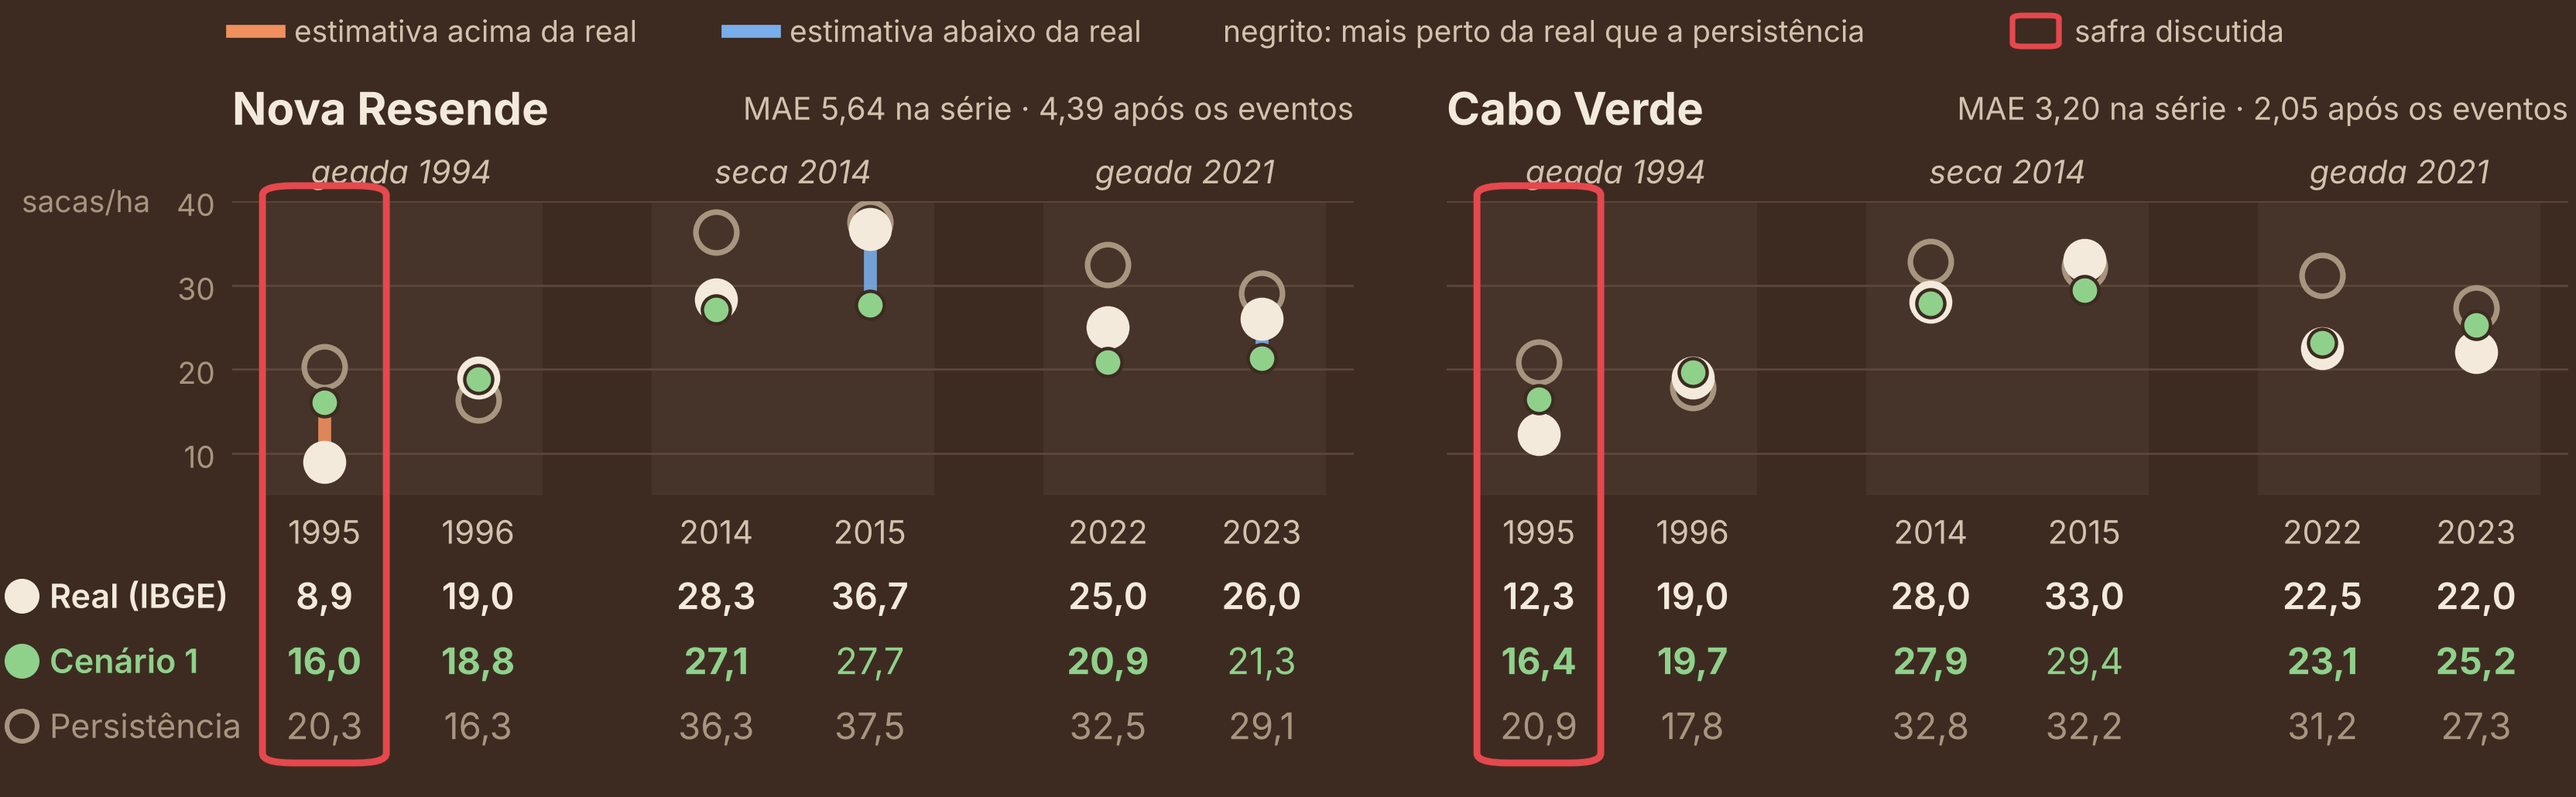
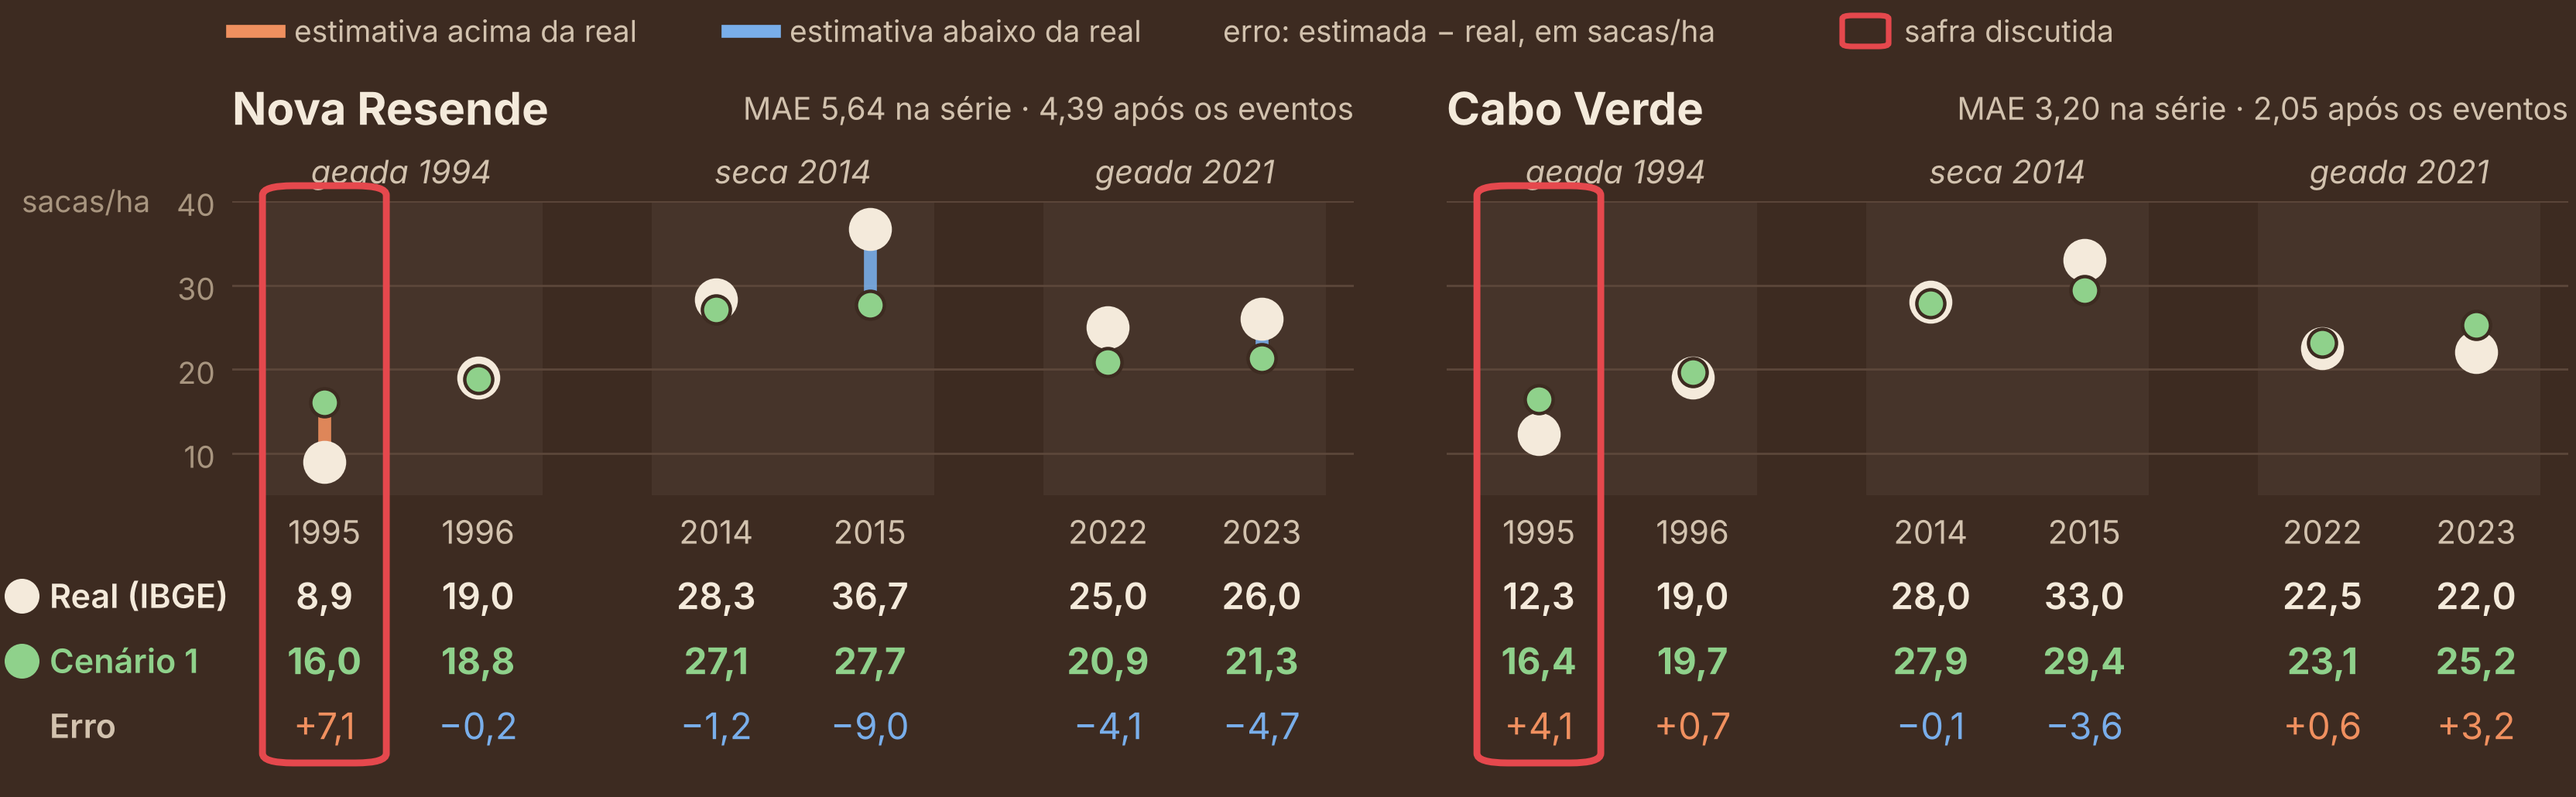
README para a banca; figuras dos slides sem persistência; teste com 12 municípios (e8)
- README: banca e titulações, local da defesa, título atualizado em Como citar,
  safra inteira fora dos cenários 1 a 4 na Tabela 1, testes de reserva e6 a e8,
  e correção da descrição da seleção dos municípios (os quatro excluídos também
  têm a série completa na PAM)
- 5h: gráficos dos slides com real, estimada e erro (estimada - real)
- e8: Cenário 1 com São Sebastião do Paraíso e Monte Santo de Minas (N = 420)

Claude-Session: https://claude.ai/code/session_01Y9bw1suotKNxbKkZ3hyj9N

diff --git a/etapa5_avaliacao/5h_eventos_slides.py b/etapa5_avaliacao/5h_eventos_slides.py
@@ -106,7 +106,6 @@ def figura_cenario(c):
         for x, (_, r) in zip(xs, e.iterrows()):
             ax.plot([x, x], [r.real, r.estimada], color=ACIMA if r.estimada > r.real else ABAIXO, lw=6,
                     alpha=0.9, solid_capstyle="butt", zorder=2)
-        ax.plot(xs, e.persistencia, ls="none", marker="o", ms=19, mfc="none", mec=APAGADO, mew=2.6, zorder=3)
         ax.plot(xs, e.real, ls="none", marker="o", ms=19, color=CREME, zorder=4)
         ax.plot(xs, e.estimada, ls="none", marker="o", ms=13, color=cor, mec=FUNDO, mew=1.6, zorder=5)
         ax.set_xlim(-0.6, max(pos.values()) + 0.6)
@@ -128,23 +127,23 @@ def figura_cenario(c):
                                                   boxstyle="round,pad=0,rounding_size=0.012", transform=fig.transFigure,
                                                   fill=False, ec=VERMELHO, lw=3.2, zorder=10))
         m = MAE[c][rot]
-        nota = (f"MAE {v2(m['MAE'])} · persistência {v2(m['MAE_persistencia'])}" if c in prev
+        nota = (f"MAE {v2(m['MAE'])} nas safras de teste" if c in prev
                 else f"MAE {v2(m['MAE'])} na série · {v2(m['MAE_eventos'])} após os eventos")
         fig.text(x0 / W, 4.45 / H, rot, fontsize=21, fontweight="bold", color=CREME, va="center")
         fig.text((x0 + larg) / W, 4.45 / H, nota, fontsize=14.5, color=BEGE, va="center", ha="right")
         tr = blended_transform_factory(ax.transData, fig.transFigure)
         for x, (_, r) in zip(xs, e.iterrows()):
-            perto = abs(r.estimada - r.real) < abs(r.persistencia - r.real)
             fig.text(x, y_lin[0] / H, v(r.real), transform=tr, ha="center", va="center", fontsize=17,
                      color=CREME, fontweight="semibold")
             fig.text(x, y_lin[1] / H, v(r.estimada), transform=tr, ha="center", va="center", fontsize=17,
-                     color=cor, fontweight="bold" if perto else "normal")
-            fig.text(x, y_lin[2] / H, v(r.persistencia), transform=tr, ha="center", va="center", fontsize=17,
-                     color=APAGADO)
+                     color=cor, fontweight="bold")
+            dif = round(r.estimada, 1) - round(r.real, 1)
+            fig.text(x, y_lin[2] / H, ("+" if dif > 0 else "−" if dif < 0 else "") + v(abs(dif)), transform=tr,
+                     ha="center", va="center", fontsize=17, color=ACIMA if dif > 0 else ABAIXO if dif < 0 else BEGE)
     # rótulos das linhas da tabela, que servem de legenda
     for y, (txt, estilo) in zip(y_lin, [("Real (IBGE)", dict(color=CREME, mfc=CREME, mec=CREME)),
                                         (NOME[c], dict(color=cor, mfc=cor, mec=cor)),
-                                        ("Persistência", dict(color=APAGADO, mfc="none", mec=APAGADO))]):
+                                        ("Erro", dict(color=BEGE, mfc="none", mec="none"))]):
         cor_txt = estilo.pop("color")
         fig.lines.append(plt.Line2D([0.14 / W], [y / H], transform=fig.transFigure, marker="o", ms=14,
                                     mew=2.2, ls="none", **estilo))
@@ -157,9 +156,8 @@ def figura_cenario(c):
                                     color=c_, lw=6))
         fig.text((xl + 0.40) / W, 4.95 / H, txt, fontsize=14, color=BEGE, va="center")
         xl += 3.2
-    fig.text(xl / W, 4.95 / H, "negrito: mais perto da real que a persistência", fontsize=14, color=BEGE,
-             va="center")
-    xl += 5.1
+    fig.text(xl / W, 4.95 / H, "erro: estimada − real, em sacas/ha", fontsize=14, color=BEGE, va="center")
+    xl += 4.0
     fig.patches.append(FancyBboxPatch((xl / W, 4.85 / H), 0.30 / W, 0.20 / H, boxstyle="round,pad=0,rounding_size=0.004",
                                       transform=fig.transFigure, fill=False, ec=VERMELHO, lw=2.6))
     fig.text((xl + 0.40) / W, 4.95 / H, "safra discutida", fontsize=14, color=BEGE, va="center")

diff --git a/experimentos/e8_doze_municipios_cenario1.py b/experimentos/e8_doze_municipios_cenario1.py
@@ -1,0 +1,64 @@
+"""
+EXPERIMENTO 8: Cenário 1 com 12 municípios (reserva para a banca)
+=================================================================
+Acrescenta São Sebastião do Paraíso e Monte Santo de Minas, que têm a série
+completa na PAM (Tabela 1613 do SIDRA, consultada em 21/11/2026), aos dez do
+TCC e repete o Cenário 1 (tendência e anomalia bienal), que só usa o IBGE.
+Mesmas regras do TCC: café total até 2012 e arábica de 2013 a 2023, safras
+1989 a 2023, K-Fold aninhado e safra inteira fora, Wilcoxon por safra.
+
+Saída: resultados/e8_doze_municipios_cenario1.json
+"""
+import json
+import sys
+from pathlib import Path
+
+import numpy as np
+import pandas as pd
+from sklearn.model_selection import LeaveOneGroupOut
+
+sys.path.insert(0, str(Path(__file__).resolve().parents[1]))
+from config import (ALVO, ANO, CONTROLES, DADOS_BRUTOS, MUN, RESULTADOS, busca_em_grade,  # noqa: E402
+                    metricas, validacao_aninhada, wilcoxon_obs_e_safra)
+
+pam = pd.concat([pd.read_csv(DADOS_BRUTOS / "producao_ibge_pam_1988_2023.csv"),
+                 pd.read_csv(DADOS_BRUTOS / "producao_ibge_pam_ssp_montesanto_1988_2023.csv")])
+pam = pam.rename(columns={"Rendimento_kg_ha": ALVO}).sort_values([MUN, ANO]) if ALVO not in pam else pam
+g = pam.groupby(MUN)[ALVO]
+pam["produtividade_t_1"] = g.shift(1)
+pam["media_movel_3anos"] = g.transform(lambda x: x.shift(1).rolling(3, min_periods=1).mean())
+pam["anomalia_bienal_t_1"] = pam.produtividade_t_1 - pam.media_movel_3anos
+pam["tendencia_temporal"] = pam[ANO] - 1988
+pam["repete"] = g.diff().eq(0)
+
+
+def safra_fora(d):
+    p = np.zeros(len(d))
+    for tr, te in LeaveOneGroupOut().split(d, groups=d[ANO]):
+        p[te] = busca_em_grade().fit(d[CONTROLES].iloc[tr], d[ALVO].iloc[tr]).predict(d[CONTROLES].iloc[te])
+    return p
+
+
+res = {}
+for nome, muns in [("10_municipios", None), ("12_municipios", "todos"), ("so_os_2_novos", "novos")]:
+    d = pam[pam[ANO] >= 1989]
+    if muns is None:
+        d = d[~d[MUN].isin(["Monte Santo de Minas", "Sao Sebastiao do Paraiso"])]
+    d = d.reset_index(drop=True)
+    y = d[ALVO].values
+    eM = np.abs(y - d.media_movel_3anos.values)
+    pk = validacao_aninhada(d, CONTROLES)[0]
+    ps = safra_fora(d)
+    r = {"N": len(d), "repetidos": int(d.repete.sum()), "media_real_sc": round(y.mean() / 60, 2),
+         "persistencia": metricas(y, d.media_movel_3anos),
+         "C1_kfold": {**metricas(y, pk), "wilcoxon_vs_M": wilcoxon_obs_e_safra(eM, np.abs(y - pk), d[ANO])},
+         "C1_safra_fora": {**metricas(y, ps), "wilcoxon_vs_M": wilcoxon_obs_e_safra(eM, np.abs(y - ps), d[ANO])}}
+    if muns == "todos":
+        for m in ["Monte Santo de Minas", "Sao Sebastiao do Paraiso"]:
+            s = (d[MUN] == m).values
+            r[m] = {"MAE_C1_kfold": metricas(y[s], pk[s])["MAE"], "MAE_persistencia": metricas(y[s], d.media_movel_3anos[s])["MAE"]}
+    res[nome] = r
+    print(nome, json.dumps(r, ensure_ascii=False, default=float)[:600], flush=True)
+    if muns == "todos":
+        break
+(RESULTADOS / "e8_doze_municipios_cenario1.json").write_text(json.dumps(res, indent=1, ensure_ascii=False, default=float))

diff --git a/README.md b/README.md
@@ -3,8 +3,9 @@
 Trabalho de Conclusão de Curso em **Engenharia Agronômica**, Instituto Federal do Sul de Minas Gerais (IFSULDEMINAS), Campus Muzambinho.
 
 **Autor:** Luiz Felipe Viana Dias da Silva
-**Orientador:** Prof. Dr. Allan Arantes Pereira
-**Defesa:** 25 de novembro de 2026
+**Orientador:** Prof. DSc. Allan Arantes Pereira (IFSULDEMINAS, Campus Muzambinho)
+**Banca:** Prof. DSc. Lucas Eduardo de Oliveira Aparecido (IFSULDEMINAS, Campus Muzambinho) e MSc. Eduarda Goulart (Universidade Federal de Lavras)
+**Defesa:** 25 de novembro de 2026, 15h, Auditório da Agronomia, IFSULDEMINAS, Campus Muzambinho
 
 Este repositório reúne os dados, os códigos e os resultados do TCC, na ordem em que o trabalho foi feito: coleta dos dados, pré-processamento, montagem da base, modelagem e avaliação. Todos os números das tabelas do texto são reproduzidos pelos scripts daqui.
 
@@ -54,7 +55,7 @@ Principais resultados:
 
 ## 2. Área de estudo
 
-Dez dos 14 municípios da microrregião de São Sebastião do Paraíso, no Sul de Minas Gerais: **Arceburgo, Cabo Verde, Guaranésia, Guaxupé, Itamogi, Jacuí, Juruaia, Monte Belo, Muzambinho e Nova Resende**, os que têm a série de produtividade de café completa na PAM de 1988 a 2023. Somaram 59,7 mil ha de café colhidos em 2023 (IBGE). Clima Cwa e Cwb, com chuvas de outubro a março e inverno seco, quando ocorrem as geadas.
+Dez dos 14 municípios da microrregião de São Sebastião do Paraíso, no Sul de Minas Gerais: **Arceburgo, Cabo Verde, Guaranésia, Guaxupé, Itamogi, Jacuí, Juruaia, Monte Belo, Muzambinho e Nova Resende**, todos com a série de produtividade de café completa na PAM de 1988 a 2023. Os outros quatro (Monte Santo de Minas, São Pedro da União, São Sebastião do Paraíso e São Tomás de Aquino) também têm a série completa na consulta de novembro de 2026; o Cenário 1 foi repetido com São Sebastião do Paraíso e Monte Santo de Minas incluídos (experimento `e8`, Seção 9), com a mesma conclusão. Os dez municípios somaram 59,7 mil ha de café colhidos em 2023 (IBGE). Clima Cwa e Cwb, com chuvas de outubro a março e inverno seco, quando ocorrem as geadas.
 
 A **unidade de observação** é o município em cada safra, porque a produção vem do levantamento municipal do IBGE.
 
@@ -242,10 +243,8 @@ O modelo **nunca** usa o rendimento da safra que estima. A média móvel é calc
 * **5f.** Os seis cenários: MAE, RMSE e R² dos cenários 1 a 4; Wilcoxon de cada cenário contra a persistência e dos cenários 2, 3 e 4 contra o Cenário 1, com ajuste de Holm sobre as 6 comparações (3 cenários × observação e safra); produtividade real × estimada nas safras de evento; R² dos previsores.
 * **5g.** Uma figura por cenário com a produtividade real (IBGE) e a estimada ao longo da série em Guaxupé, Muzambinho, Nova Resende e Cabo Verde, com a persistência histórica, as safras após geada ou seca sombreadas e o MAE do cenário em cada município. A faixa entre a real e a estimada é o erro (laranja: superestimativa; azul: subestimativa). Duas versões: 1 × 4 painéis para o texto e 2 × 2, com os eventos rotulados, para os slides (`resultados/figuras/apresentacao/`).
 
-* **5h.** Figuras da apresentação: real, estimada e persistência nas safras de seca e de geada em Nova Resende e Cabo Verde, com os valores em tabela, e o resumo das safras de evento (Tabela 3) em gráfico.
+* **5h.** Figuras da apresentação: produtividade real e estimada nas safras de seca e de geada em Nova Resende e Cabo Verde, com os valores e o erro (estimada − real) em tabela, um quadro vermelho nas safras discutidas e o resumo das safras de evento (Tabela 3) em gráfico.
 * **5i.** Robustez da comparação entre os cenários 1 a 4: (1) **safra inteira fora** do treino para os quatro cenários, com Wilcoxon contra a persistência e contra o Cenário 1 (Holm sobre 6 testes); (2) **intervalo de confiança de 95%** da diferença de MAE contra o Cenário 1, por bootstrap de safras (10.000 repetições); (3) K-Fold aninhado com **sorteio de variáveis** (`max_features = "sqrt"`), como no Random Forest de Breiman (2001). O 4b também registra, à parte, o previsor de seca na safra de 2021 (florada de 2020, maior déficit da série).
-
-* **e6 e e7 (reserva para a banca).** e6: os cenários 1 a 4 sem os 61 valores suspeitos do IBGE (42 repetidos e 19 iguais aos de outros municípios na mesma safra) e um efeito climático plantado na produtividade, para ver o tamanho de efeito que o método detecta. e7: um modelo para cada município, treinado só com as outras safras dele.
 
 A análise SHAP, que atribuía o dano de cada evento ao clima e ao NDVI, saiu do texto do TCC e ficou como experimento (`experimentos/e5_dano_shap_por_evento.py`).
 
@@ -265,7 +264,10 @@ Valores em sacas/ha. Gerados por `executar_tudo.py`; os arquivos completos estã
 | 2 Base + clima | 8 | 4,71 (0,51) | 6,44 | 0,40 | 0,019 | 0,35 [1] | 4,24 |
 | 3 Base + NDVI | 6 | 4,76 (0,28) | 6,38 | 0,42 | 0,029 | 0,33 [1] | 4,34 |
 | 4 Completo | 12 | 4,69 (0,45) | 6,38 | 0,42 | 0,014 | 0,29 [1] | 4,19 |
-| 4 Completo, safra inteira fora | 12 | 6,05 | 7,86 | 0,11 | 0,73 | – | 6,08 |
+| 1 Base, safra inteira fora | 2 | 6,21 | 8,01 | 0,08 | 0,89 | – | 6,13 |
+| 2 Base + clima, safra inteira fora | 8 | 6,08 | 8,03 | 0,07 | 0,68 | 0,39 [0,96] | 5,93 |
+| 3 Base + NDVI, safra inteira fora | 6 | 5,85 | 7,62 | 0,17 | 0,48 | 0,20 [0,96] | 6,33 |
+| 4 Completo, safra inteira fora | 12 | 6,05 | 7,86 | 0,11 | 0,73 | 0,57 [0,96] | 6,08 |
 
 p: Wilcoxon pareado por safra (N = 35). Por observação (N = 350), todos os cenários diferiram da persistência (p < 0,0001) e nenhum do Cenário 1 (p ≥ 0,18). Contra Y(t−2), o Cenário 4 teve p = 0,021 por safra.
 
@@ -344,13 +346,19 @@ A pasta [`experimentos/`](experimentos/README.md) guarda os testes que guiaram a
 * **e4:** o balanço hídrico no modelo principal (reduz o erro do modelo completo, mas não o deixa melhor que o modelo só com controles);
 * **e5:** a atribuição do dano pelo SHAP nas safras de evento, que saiu do TCC porque atribuía parte da estimativa ao clima mesmo quando retirar o clima não muda o erro.
 
+Testes de reserva, feitos depois do texto final e que não estão no TCC:
+
+* **e6, dados limpos e sinal plantado.** Sem os 61 valores suspeitos do IBGE (42 iguais à safra anterior e 19 iguais aos de outros municípios na mesma safra, N = 289), com a safra inteira fora, o clima reduziu o erro da base de 6,68 para 5,97 sacas/ha e o NDVI para 6,01 (p = 0,04 por safra; 0,11 após Holm). Com um efeito climático conhecido somado à produtividade, o modelo com clima só o detectou com desvio padrão de 4 sacas/ha (7,53 → 6,51, p = 0,031) e com a safra fora; no K-Fold, nem esse efeito foi detectado (p = 0,18).
+* **e7, um modelo por município**, treinado só com as outras safras dele: Cenário 1 com 5,76 sacas/ha (uma safra fora por vez), contra 6,26 da persistência (p = 0,10); com clima, 6,34, pior que a base.
+* **e8, 12 municípios no Cenário 1.** Com São Sebastião do Paraíso e Monte Santo de Minas (N = 420), o Cenário 1 errou 4,49 sacas/ha, contra 6,36 da persistência (p = 0,001 por safra); com a safra inteira fora, 6,30 (p = 0,98). A conclusão do TCC se mantém.
+
 Em `experimentos/versoes_anteriores/` estão os códigos de fases anteriores (cenários separados, Sentinel-2, CHIRPS, a primeira baseline com vazamento etc.), com uma tabela explicando o que cada um fazia e por que foi substituído.
 
 ---
 
 ## 10. Limitações
 
-* Em 9 dos 10 municípios o IBGE repete o rendimento por 2 a 4 safras, sobretudo em 1999-2002; a PAM consolida estimativas de informantes locais.
+* O IBGE repete o rendimento da safra anterior em 42 casos, em 9 dos 10 municípios, 83% deles entre 1991 e 2002; a PAM consolida estimativas de informantes locais.
 * O K-Fold não mede a previsão de safras futuras; há poucos eventos extremos (uma seca e três geadas).
 * Os municípios de uma mesma safra compartilham o clima, por isso o teste por safra é o mais honesto.
 * O rendimento até 2012 é de café total; a partir de 2013, de café arábica.
@@ -387,4 +395,4 @@ A lista completa está no texto do TCC.
 
 ---
 
-**Como citar:** SILVA, L. F. V. D. *Sensoriamento remoto e aprendizado de máquina na estimativa da produtividade e do dano climático no café arábica*. Trabalho de Conclusão de Curso (Engenharia Agronômica). IFSULDEMINAS, Campus Muzambinho, 2026.
+**Como citar:** SILVA, L. F. V. D. *Contribuição do clima e do NDVI para estimar e antecipar a produtividade do café arábica com Random Forest*: avaliação com dados públicos em dez municípios da microrregião de São Sebastião do Paraíso, MG. Trabalho de Conclusão de Curso (Engenharia Agronômica). IFSULDEMINAS, Campus Muzambinho, 2026.

diff --git a/experimentos/README.md b/experimentos/README.md
@@ -11,6 +11,11 @@ Esta pasta guarda os testes que ajudaram a chegar ao desenho final do TCC. Eles 
 | `e3_residualizacao.py` | Tirando tendência e bienalidade por regressão, o clima explica o que sobra? | Clima e NDVI explicam cerca de 31% do resíduo (38% sem 1991-2002), com a florada no topo. Mas a combinação linear + RF erra mais (4,87) que o RF só com controles (4,54). |
 | `e4_deficit_hidrico_no_modelo.py` | Vale incluir o balanço hídrico no modelo principal? | No modelo completo, 4,69 → 4,55 (p = 0,012 por safra), mas sem superar o modelo só com controles (4,54); nos controles, o déficit piora o erro (4,73). Ficou só no previsor de seca. |
 | `e5_dano_shap_por_evento.py` | Quanto do dano de cada evento o SHAP atribui ao clima e ao NDVI? | Na 1ª safra após a geada de 2021 (2022), −2,0 sacas/ha ao clima e −1,7 ao NDVI, de uma queda de 6,8. Saiu do TCC: o SHAP atribui parte da estimativa ao clima mesmo quando retirar o clima não muda o erro (Cenário 2 × Cenário 1, etapa 5f), o que confundia a leitura. |
+| `e6_dados_limpos_e_sinal_plantado.py` | O problema está no modelo ou no dado do IBGE? | Sem os 61 valores suspeitos (N = 289), com a safra inteira fora: base 6,68, clima 5,97, NDVI 6,01 (p = 0,04 por safra; 0,11 após Holm). Com um efeito climático plantado, só o de 4 sacas/ha (desvio padrão) foi detectado, e só com a safra fora (7,53 → 6,51; p = 0,031). |
+| `e7_modelo_por_municipio.py` | E se cada município tivesse o seu modelo, treinado só com as próprias safras? | Cenário 1: 5,76 (uma safra fora por vez), contra 6,26 da persistência (p = 0,10); com clima, 6,34, pior que a base (p = 0,02 por safra). |
+| `e8_doze_municipios_cenario1.py` | A base se mantém com São Sebastião do Paraíso e Monte Santo de Minas? | Com 12 municípios (N = 420), Cenário 1 com 4,49, contra 6,36 da persistência (p = 0,001); com a safra inteira fora, 6,30 (p = 0,98). Dados desses dois municípios em `dados/brutos/producao_ibge_pam_ssp_montesanto_1988_2023.csv`. |
+
+Os testes e6 a e8 foram feitos depois do texto final, como reserva para as perguntas da banca, e não estão no TCC.
 
 Os resultados ficam em `resultados/e*.json`.
 
